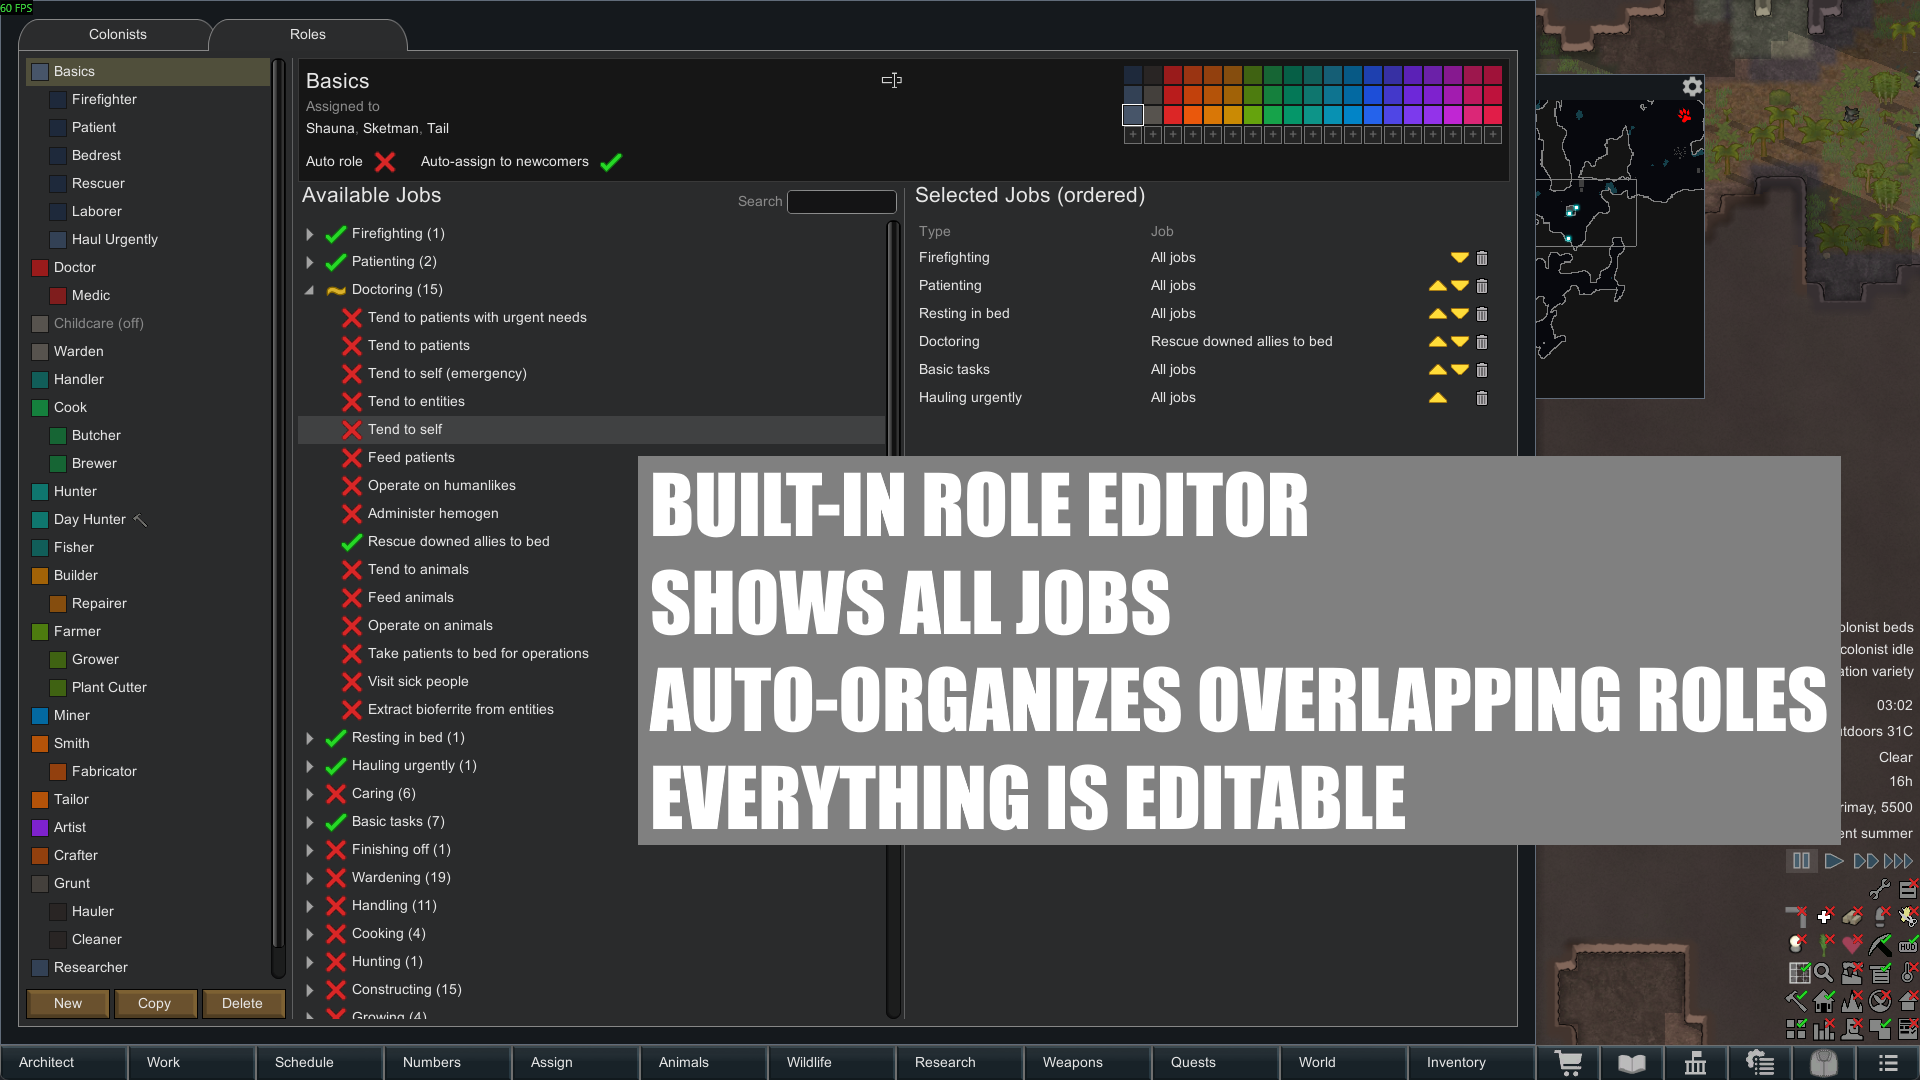
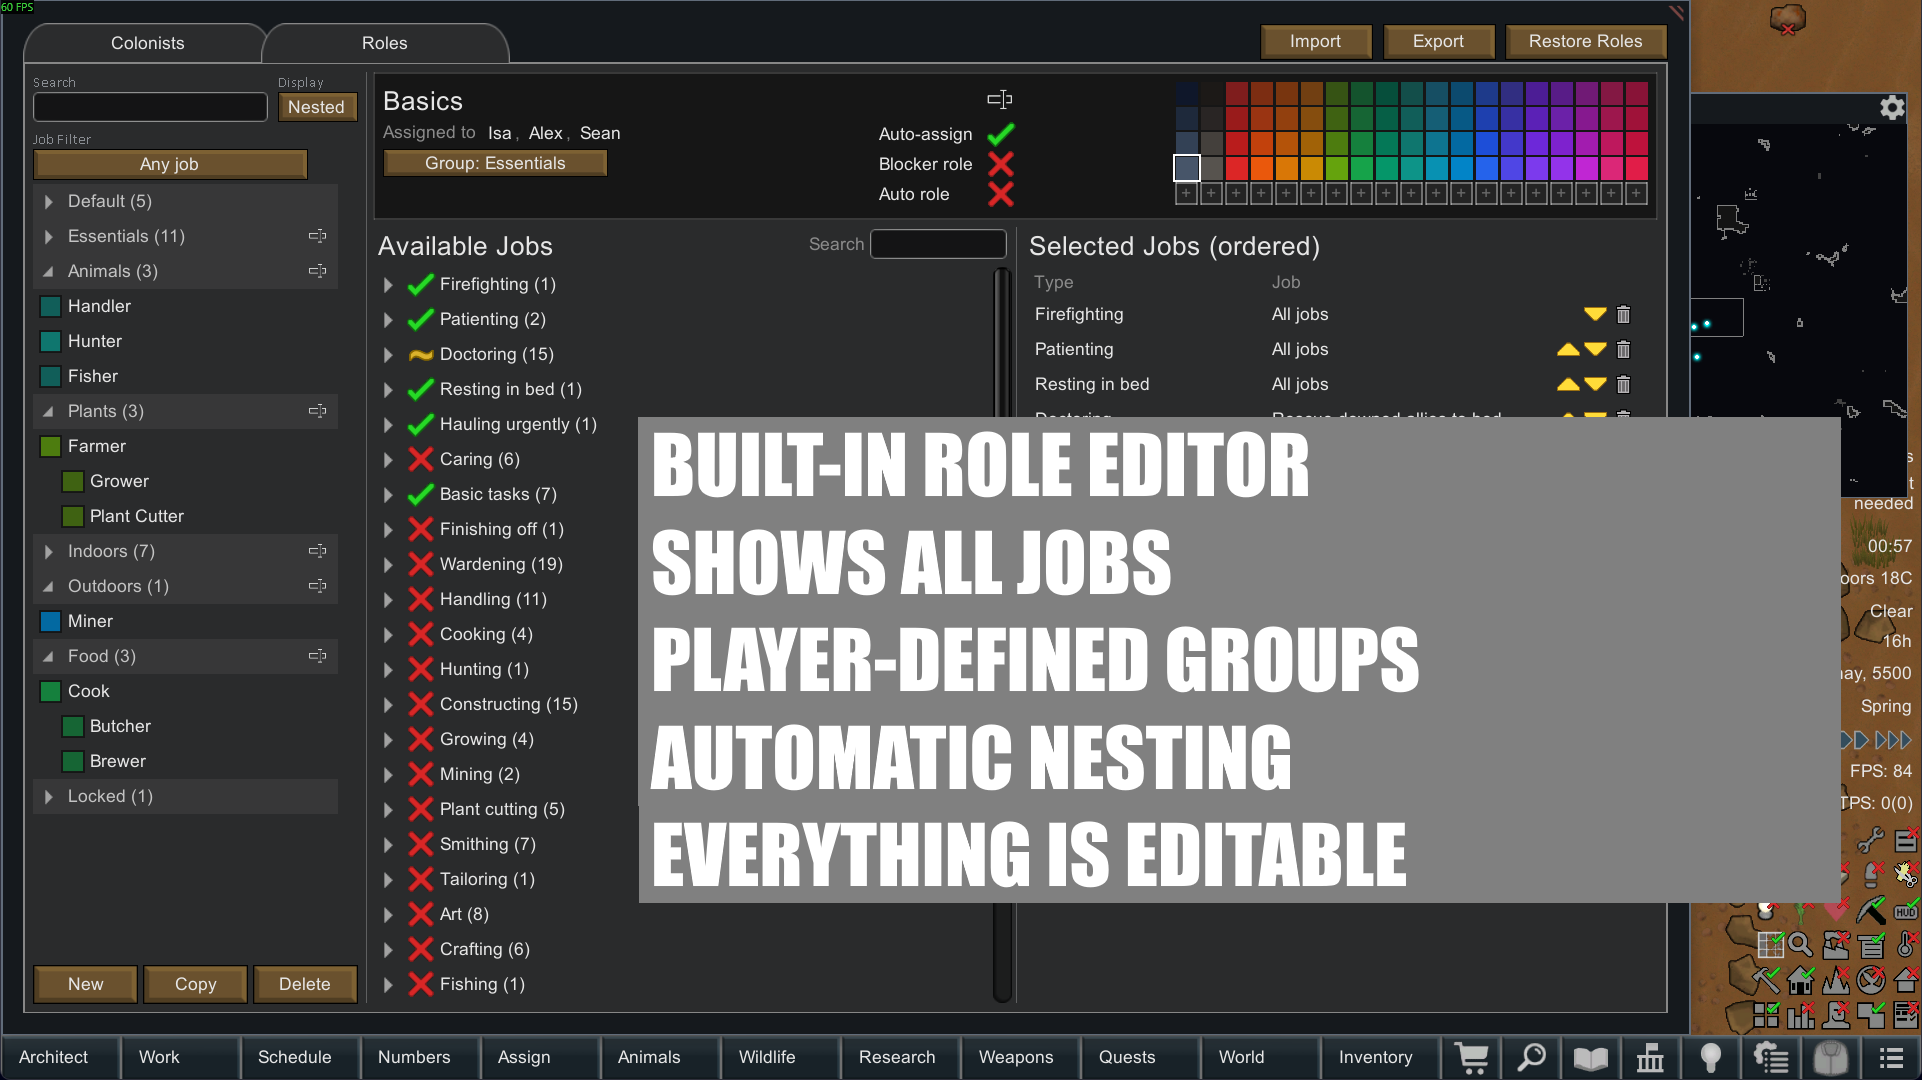
v1.1.1
Allow individual selection of work types and jobs. Removed logic to collapse "all jobs" to its parent work type.

diff --git a/src/WorkRoles/UI/RolesTabView.cs b/src/WorkRoles/UI/RolesTabView.cs
@@ -3,6 +3,7 @@ using System.Linq;
 using RimWorld;
 using UnityEngine;
 using Verse;
+using Verse.Sound;
 using WorkRoles.Core;
 
 namespace WorkRoles.UI
@@ -1615,9 +1616,22 @@ namespace WorkRoles.UI
 
                     var checkboxRect = new Rect(row.x + 26f, row.y + (row.height - 24f) / 2f, 24f, 24f);
                     var currentState = GetWorkTypeState(role, type);
-                    var newState = Widgets.CheckboxMulti(checkboxRect, currentState);
-                    if (newState != currentState)
-                        ApplyWorkTypeState(role, type, newState);
+                    // Right-click: add every job as its own reorderable entry.
+                    var te = Event.current;
+                    if (te.type == EventType.MouseDown && te.button == 1 && row.Contains(te.mousePosition))
+                    {
+                        te.Use();
+                        var capturedType = type;
+                        Find.WindowStack.Add(new FloatMenu(new List<FloatMenuOption>
+                        {
+                            new FloatMenuOption("WR_AddAllJobs".Translate(), () =>
+                                AddAllGivers(role, capturedType)),
+                        }));
+                    }
+                    bool typeAdds = currentState == MultiCheckboxState.Off;
+                    if (MultiCheckboxClicked(checkboxRect, currentState, typeAdds))
+                        ApplyWorkTypeState(role, type,
+                            typeAdds ? MultiCheckboxState.On : MultiCheckboxState.Off);
 
                     // The label toggles like the arrow — a far bigger target.
                     var typeLabelRect = new Rect(row.x + 54f, row.y, row.width - 54f, RowHeight);
@@ -1634,9 +1648,14 @@ namespace WorkRoles.UI
 
                     var checkboxRect = new Rect(row.x + 42f, row.y + (row.height - 24f) / 2f, 24f, 24f);
                     var currentState = GetGiverState(role, type, giver);
-                    var newState = Widgets.CheckboxMulti(checkboxRect, currentState);
-                    if (newState != currentState)
-                        ApplyGiverState(role, type, giver, newState);
+                    // ~ = covered via the work type; a click promotes to an own
+                    // (reorderable) entry.
+                    if (currentState == MultiCheckboxState.Partial)
+                        TooltipHandler.TipRegion(row, "WR_CoveredByTypeTip".Translate());
+                    bool giverAdds = currentState != MultiCheckboxState.On;
+                    if (MultiCheckboxClicked(checkboxRect, currentState, giverAdds))
+                        ApplyGiverState(role, type, giver,
+                            giverAdds ? MultiCheckboxState.On : MultiCheckboxState.Off);
 
                     Widgets.Label(new Rect(row.x + 70f, row.y, row.width - 70f, RowHeight), giverName);
                 }
@@ -1698,113 +1717,91 @@ namespace WorkRoles.UI
 
         // ----- Tri-state helpers -----
 
+        /// CheckboxMulti look-alike whose click sound matches OUR action — the
+        /// vanilla widget keys the sound to the state it proposes, which is
+        /// wrong for the promote-from-~ click.
+        private static bool MultiCheckboxClicked(Rect rect, MultiCheckboxState state, bool adds)
+        {
+            var tex = state == MultiCheckboxState.On ? Widgets.CheckboxOnTex
+                : state == MultiCheckboxState.Off ? Widgets.CheckboxOffTex
+                : Widgets.CheckboxPartialTex;
+            if (!Widgets.ButtonImage(rect, tex)) return false;
+            (adds ? SoundDefOf.Checkbox_TurnedOn : SoundDefOf.Checkbox_TurnedOff).PlayOneShotOnCamera();
+            return true;
+        }
+
+        /// Binary: On iff the WorkType entry itself is in the list (it also
+        /// covers future modded jobs — not the same as all givers individually).
         private static MultiCheckboxState GetWorkTypeState(Role role, WorkTypeDef type)
         {
-            bool hasTypeEntry = role.entries.Any(e => e.Kind == JobEntryKind.WorkType && e.DefName == type.defName);
-            if (hasTypeEntry) return MultiCheckboxState.On;
-
-            var givers = type.workGiversByPriority;
-            if (givers.Count == 0) return MultiCheckboxState.Off;
-
-            int giverMatches = givers.Count(g => role.entries.Any(e => e.Kind == JobEntryKind.WorkGiver && e.DefName == g.defName));
-            if (giverMatches == 0) return MultiCheckboxState.Off;
-            if (giverMatches == givers.Count) return MultiCheckboxState.On;
-            return MultiCheckboxState.Partial;
+            return role.entries.Any(e => e.Kind == JobEntryKind.WorkType && e.DefName == type.defName)
+                ? MultiCheckboxState.On
+                : MultiCheckboxState.Off;
         }
 
+        /// On = own entry (reorderable); Partial = covered via the work type.
         private static MultiCheckboxState GetGiverState(Role role, WorkTypeDef type, WorkGiverDef giver)
         {
-            bool hasTypeEntry = role.entries.Any(e => e.Kind == JobEntryKind.WorkType && e.DefName == type.defName);
-            if (hasTypeEntry) return MultiCheckboxState.On;
-            bool hasGiverEntry = role.entries.Any(e => e.Kind == JobEntryKind.WorkGiver && e.DefName == giver.defName);
-            return hasGiverEntry ? MultiCheckboxState.On : MultiCheckboxState.Off;
+            if (role.entries.Any(e => e.Kind == JobEntryKind.WorkGiver && e.DefName == giver.defName))
+                return MultiCheckboxState.On;
+            return role.entries.Any(e => e.Kind == JobEntryKind.WorkType && e.DefName == type.defName)
+                ? MultiCheckboxState.Partial
+                : MultiCheckboxState.Off;
         }
 
+        /// Adds/removes only the WorkType entry itself — giver entries (and the
+        /// player's ordering of them) are never touched from here.
         private static void ApplyWorkTypeState(Role role, WorkTypeDef type, MultiCheckboxState newState)
         {
             if (newState == MultiCheckboxState.On)
             {
-                var toRemove = new List<int>();
-                for (int j = 0; j < role.entries.Count; j++)
-                {
-                    var e = role.entries[j];
-                    if (e.Kind == JobEntryKind.WorkGiver
-                        && type.workGiversByPriority.Any(g => g.defName == e.DefName))
-                        toRemove.Add(j);
-                }
-                for (int k = toRemove.Count - 1; k >= 0; k--)
-                    RoleCommands.RemoveEntry(role.id, toRemove[k]);
                 if (!role.entries.Any(e => e.Kind == JobEntryKind.WorkType && e.DefName == type.defName))
                     RoleCommands.AddEntry(role.id, new JobEntry(JobEntryKind.WorkType, type.defName));
             }
-            else // Off
+            else
             {
-                var toRemove = new List<int>();
-                for (int j = 0; j < role.entries.Count; j++)
-                {
-                    var e = role.entries[j];
-                    if (e.Kind == JobEntryKind.WorkType && e.DefName == type.defName)
-                        toRemove.Add(j);
-                    else if (e.Kind == JobEntryKind.WorkGiver
-                             && type.workGiversByPriority.Any(g => g.defName == e.DefName))
-                        toRemove.Add(j);
-                }
-                for (int k = toRemove.Count - 1; k >= 0; k--)
-                    RoleCommands.RemoveEntry(role.id, toRemove[k]);
+                int typeIdx = role.entries.FindIndex(e => e.Kind == JobEntryKind.WorkType && e.DefName == type.defName);
+                if (typeIdx >= 0)
+                    RoleCommands.RemoveEntry(role.id, typeIdx);
             }
         }
 
+        /// Giver entries and a WorkType entry may coexist: an entry placed above
+        /// the type outranks it (the compiler keeps a job's earliest position),
+        /// which is how single jobs get ordered inside an all-jobs selection.
         private static void ApplyGiverState(Role role, WorkTypeDef type, WorkGiverDef giver, MultiCheckboxState newState)
         {
             if (newState == MultiCheckboxState.On)
             {
-                if (!role.entries.Any(e => e.Kind == JobEntryKind.WorkGiver && e.DefName == giver.defName))
+                if (role.entries.Any(e => e.Kind == JobEntryKind.WorkGiver && e.DefName == giver.defName))
+                    return;
+                // Above the type entry when one exists — below it, the entry
+                // would never win a position.
+                int typeIdx = role.entries.FindIndex(e => e.Kind == JobEntryKind.WorkType && e.DefName == type.defName);
+                if (typeIdx >= 0)
+                    RoleCommands.AddEntry(role.id, new JobEntry(JobEntryKind.WorkGiver, giver.defName), typeIdx);
+                else
                     RoleCommands.AddEntry(role.id, new JobEntry(JobEntryKind.WorkGiver, giver.defName));
-
-                // Collapse to WorkType entry if all givers are now individually present
-                var allGivers = type.workGiversByPriority;
-                bool allPresent = allGivers.Count > 0
-                    && allGivers.All(g => role.entries.Any(e => e.Kind == JobEntryKind.WorkGiver && e.DefName == g.defName));
-
-                if (allPresent)
-                {
-                    int insertAt = int.MaxValue;
-                    var toRemove = new List<int>();
-                    for (int j = 0; j < role.entries.Count; j++)
-                    {
-                        var e = role.entries[j];
-                        if (e.Kind == JobEntryKind.WorkGiver
-                            && allGivers.Any(g => g.defName == e.DefName))
-                        {
-                            toRemove.Add(j);
-                            if (j < insertAt) insertAt = j;
-                        }
-                    }
-                    for (int k = toRemove.Count - 1; k >= 0; k--)
-                        RoleCommands.RemoveEntry(role.id, toRemove[k]);
-                    if (insertAt == int.MaxValue) insertAt = role.entries.Count;
-                    RoleCommands.AddEntry(role.id, new JobEntry(JobEntryKind.WorkType, type.defName), insertAt);
-                }
             }
-            else // Off
+            else // Off: only ever removes the giver's own entry
             {
                 int giverIdx = role.entries.FindIndex(e => e.Kind == JobEntryKind.WorkGiver && e.DefName == giver.defName);
                 if (giverIdx >= 0)
-                {
                     RoleCommands.RemoveEntry(role.id, giverIdx);
-                    return;
-                }
+            }
+        }
 
-                // Covered by a parent WorkType entry: remove it, re-add all OTHER givers
-                int typeIdx = role.entries.FindIndex(e => e.Kind == JobEntryKind.WorkType && e.DefName == type.defName);
-                if (typeIdx >= 0)
-                {
-                    RoleCommands.RemoveEntry(role.id, typeIdx);
-                    int insertAt = typeIdx;
-                    var otherGivers = type.workGiversByPriority.Where(g => g.defName != giver.defName).ToList();
-                    for (int k = otherGivers.Count - 1; k >= 0; k--)
-                        RoleCommands.AddEntry(role.id, new JobEntry(JobEntryKind.WorkGiver, otherGivers[k].defName), insertAt);
-                }
+        /// Every giver of the type as its own reorderable entry (existing ones
+        /// kept in place), above the type entry when present.
+        private static void AddAllGivers(Role role, WorkTypeDef type)
+        {
+            int insertAt = role.entries.FindIndex(e => e.Kind == JobEntryKind.WorkType && e.DefName == type.defName);
+            if (insertAt < 0) insertAt = role.entries.Count;
+            foreach (var giver in type.workGiversByPriority)
+            {
+                if (role.entries.Any(e => e.Kind == JobEntryKind.WorkGiver && e.DefName == giver.defName)) continue;
+                RoleCommands.AddEntry(role.id, new JobEntry(JobEntryKind.WorkGiver, giver.defName), insertAt);
+                insertAt++;
             }
         }
     }

diff --git a/CHANGELOG.md b/CHANGELOG.md
@@ -1,5 +1,9 @@
 # Changelog
 
+## 1.1.1 — 2026-07-13
+
+  - Changed: Changed job assignment to treat work types and jobs independently. When all sub-jobs for a work type are selected, the UI no longer collapses to the work type. To also make the role cover any future jobs appearing under the work type (from mods), you must have the work type in the role as well.
+  
 ## 1.1.0 — 2026-07-12
 
 ### Added